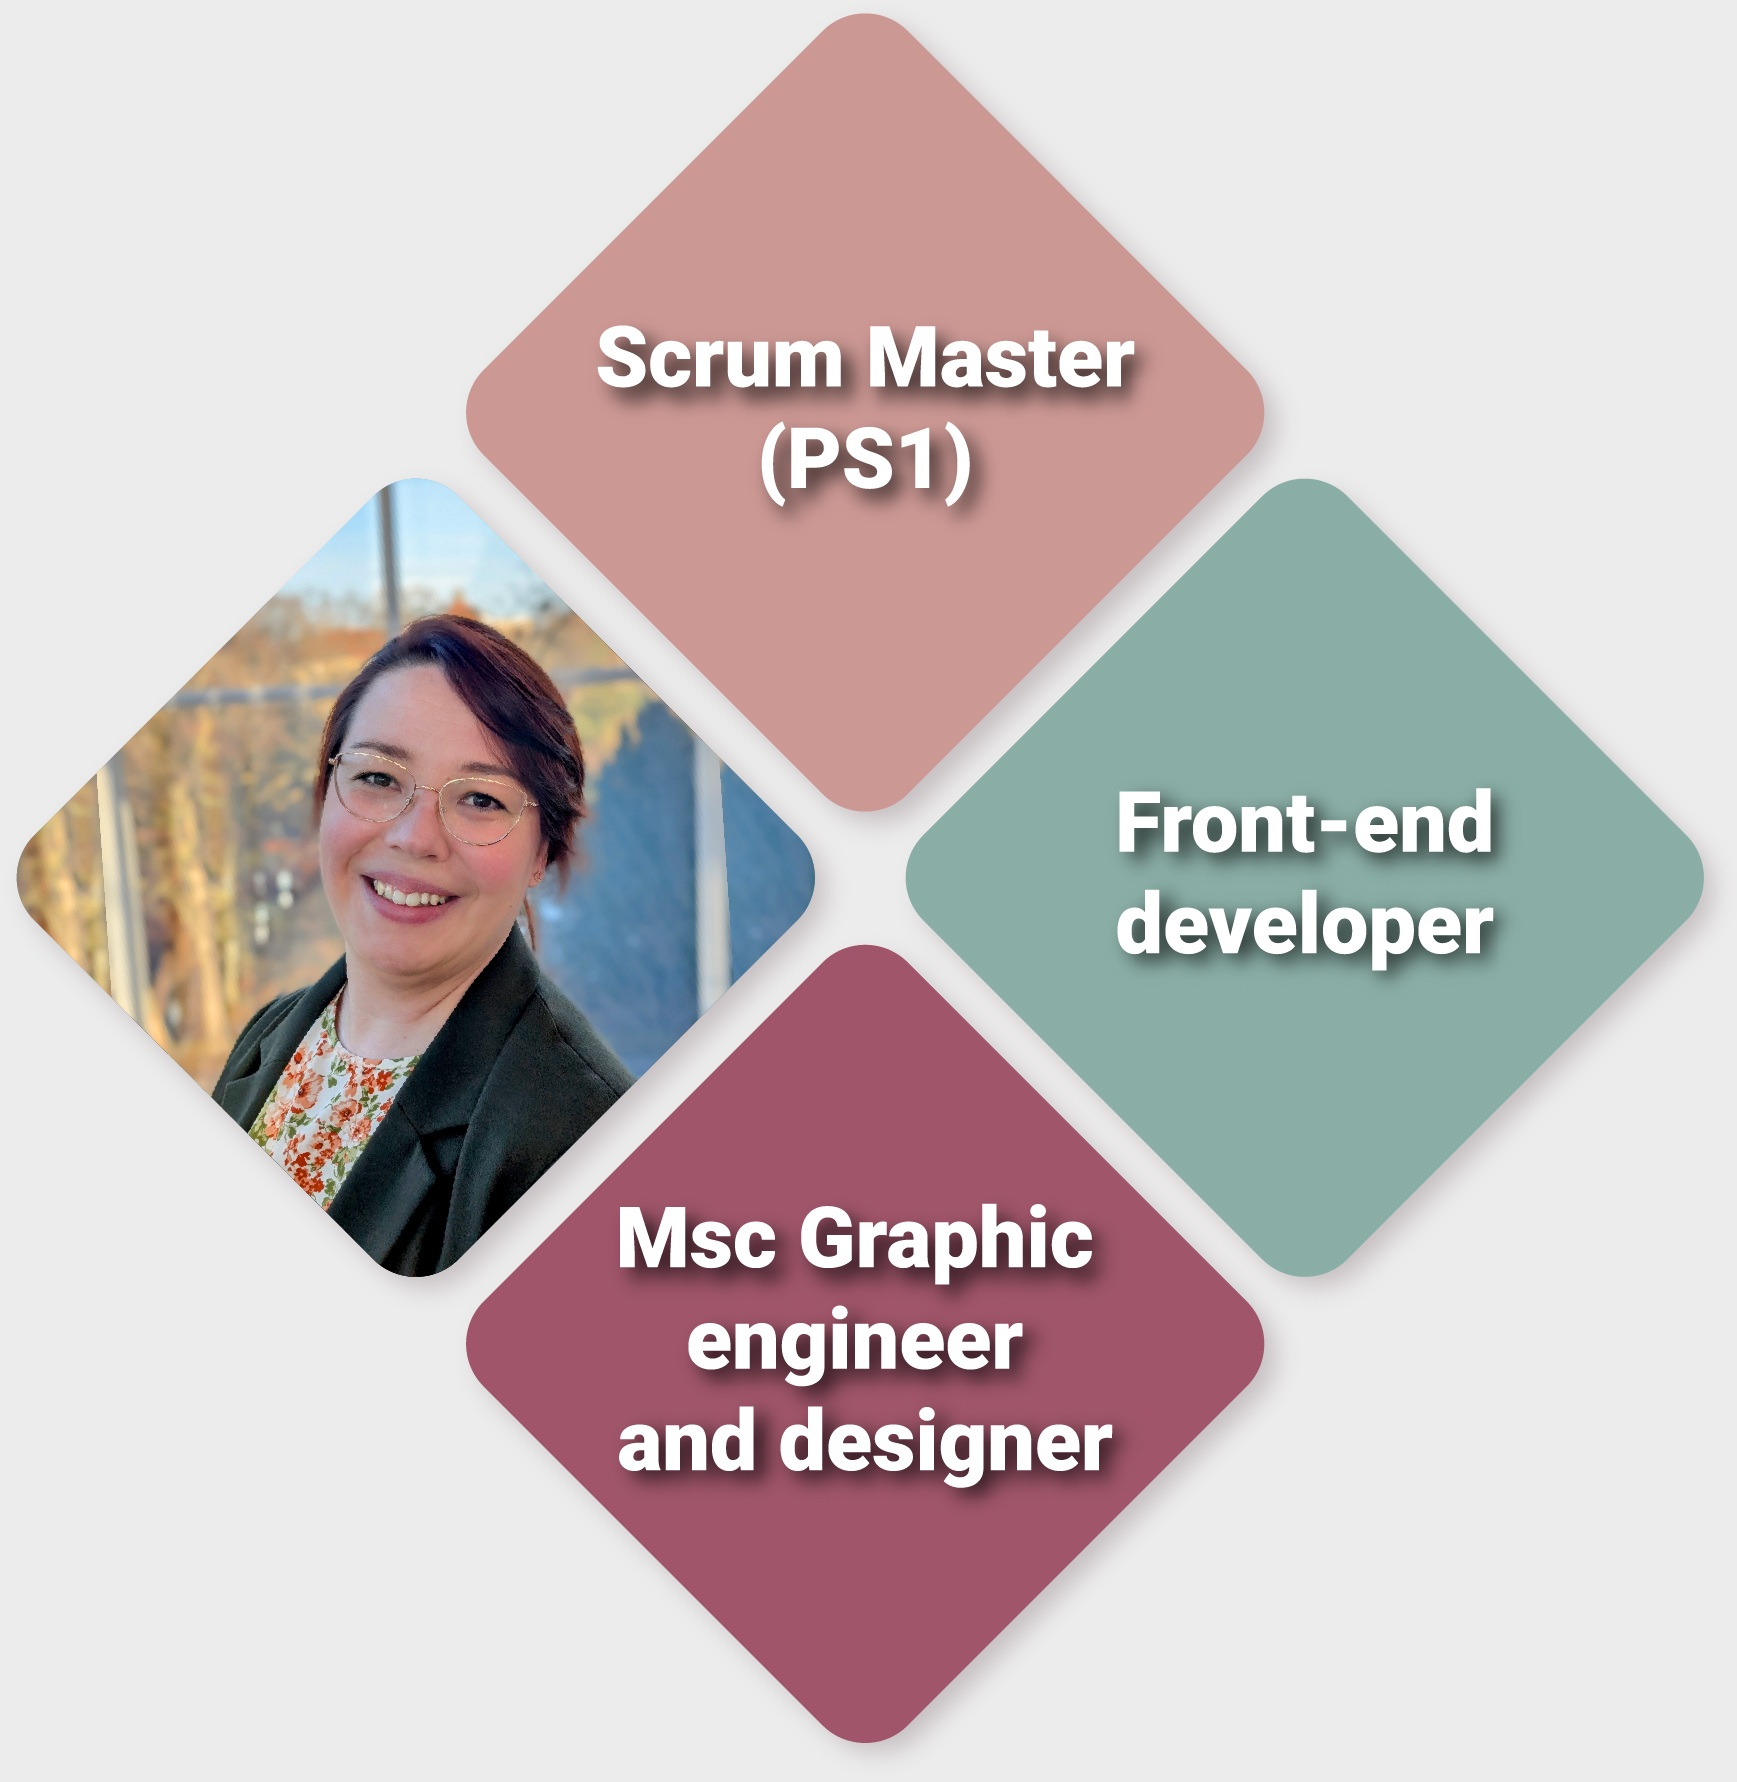
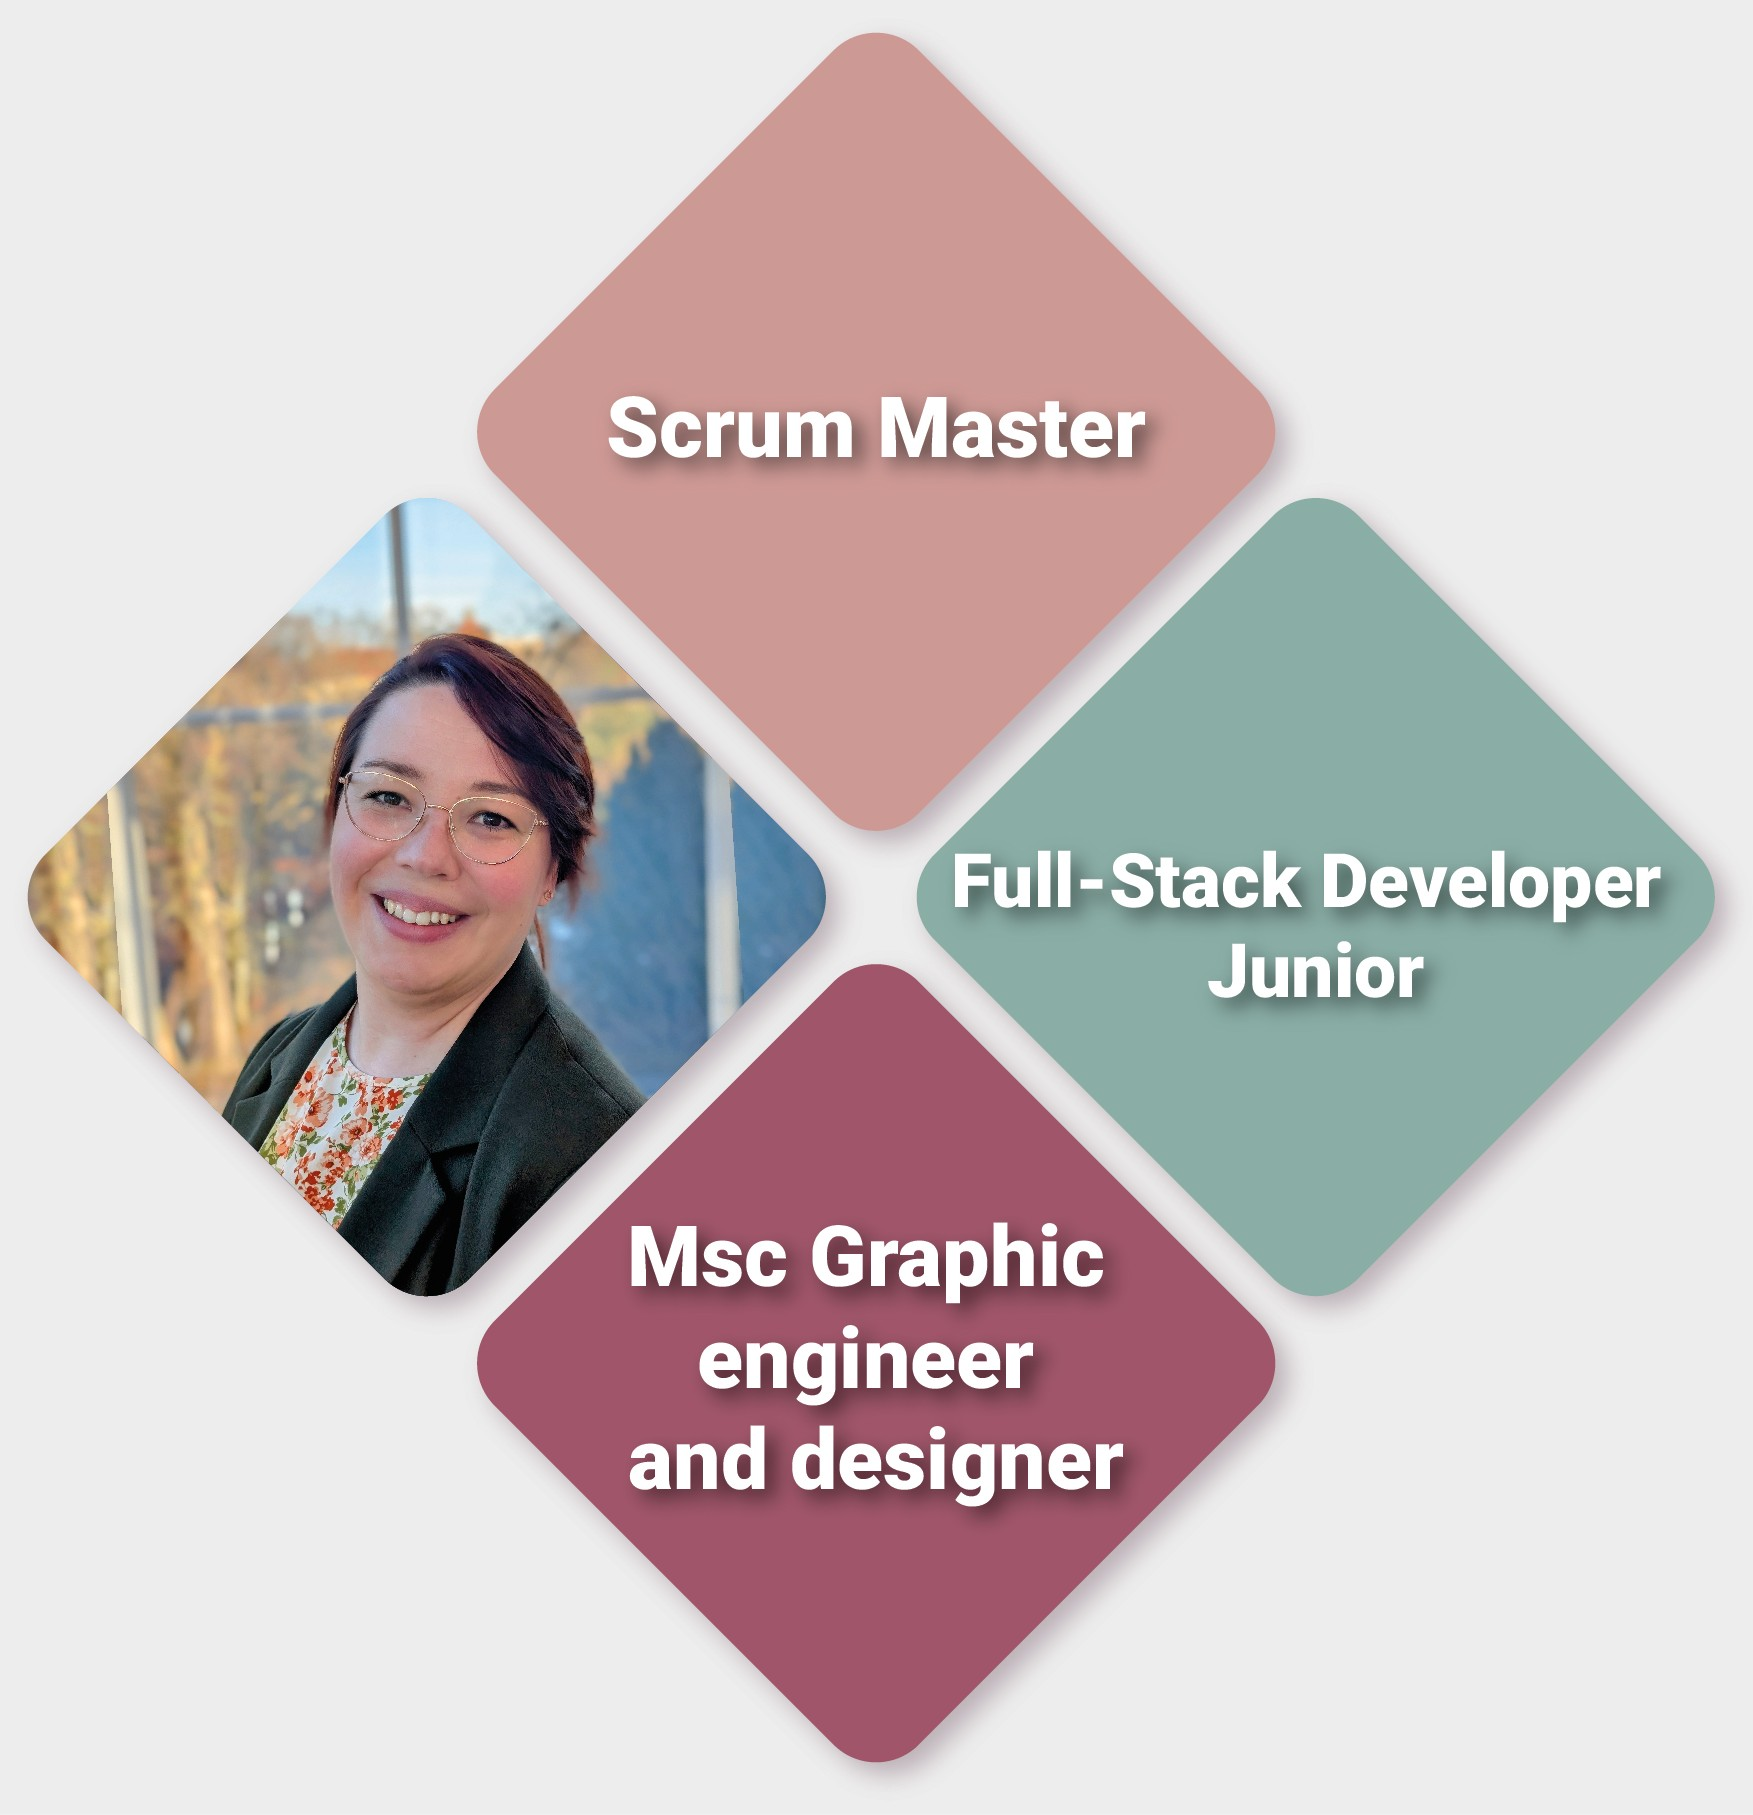
update of portfolio to full stack

diff --git a/src/assets/pages/Work.jsx b/src/assets/pages/Work.jsx
@@ -16,6 +16,7 @@ import Corgi from '../pictures/Work_corgi.svg';
 import Spa from '../pictures/Serenity.png';
 import Animation from '../pictures/Animation.svg';
 import Sass from '../pictures/Sass.svg';
+import LittleLemon from '../pictures/LitlleLemon.png';
 
 const chapterText = "My work";
 
@@ -52,6 +53,20 @@ function Work() {
                         modules={[EffectCoverflow, Pagination, Navigation]}
                         className="swiper-container"
                     >
+                          <SwiperSlide>
+                            <Work_chapter tittle="Little Lemon restaurant"
+                                built_on="Django, MySQL html, CSS"
+                                note="This website was built as a capstone project during 
+                                the Meta Back-End Developer course. It represents an 
+                                Italian restaurant called Little Lemon and is developed 
+                                using the Django framework. It includes Booking and 
+                                Menu pages connected to a MySQL database, enabling dynamic,
+                                 real-world content handling. This project provided hands-on experience and a 
+                                deeper understanding of how back-end systems work in practice."
+                                img={LittleLemon}
+                                url="https://angemijr.pythonanywhere.com/"
+                                 />
+                        </SwiperSlide>
                         <SwiperSlide>
                             <Work_chapter tittle="Memory game"
                                 built_on="React, JavaScript, html, CSS"

diff --git a/src/assets/styles/About.css b/src/assets/styles/About.css
@@ -7,7 +7,7 @@
     height: 100vh;
     min-width: 1200px;
     min-height: 900px;
-    /* border: 5px solid red; */
+     /*border: 5px solid red;*/ 
     display: flex;
     flex-direction: column;
     justify-content: flex-start;

diff --git a/src/assets/styles/Contact.css b/src/assets/styles/Contact.css
@@ -9,7 +9,7 @@
     height: 100vh;
     min-width: 1200px;
     min-height: 300px;
-    /* border: 5px solid red; */
+    /*border: 5px solid red; */
     display: flex;
     flex-direction: column;
     justify-content: flex-start;

diff --git a/src/assets/styles/reset.css b/src/assets/styles/reset.css
@@ -40,4 +40,6 @@ input, button, textarea, select{
 body, html{
     height: 100%; 
     scroll-behavior: smooth; 
+    overflow-x: hidden;
+    overflow-y: auto;
 }

diff --git a/src/assets/styles/Work.css b/src/assets/styles/Work.css
@@ -14,6 +14,7 @@
     justify-content: flex-start;
     align-items: flex-end;
     position: relative;
+    /*border: 2px solid #128312;*/
 }
 
 .container5 {

diff --git a/src/assets/styles/Skills.css b/src/assets/styles/Skills.css
@@ -15,6 +15,7 @@
     align-items: flex-start;
     position: relative;
     background-color: #ececec;
+   
 }
 
 #skills .chapter_left {

diff --git a/src/assets/styles/Education.css b/src/assets/styles/Education.css
@@ -13,6 +13,7 @@
     justify-content: flex-start;
     align-items: flex-end;
     position: relative;
+    
 }
 
 .chapter_right {

diff --git a/src/assets/styles/Work_chapter.css b/src/assets/styles/Work_chapter.css
@@ -16,6 +16,7 @@
     align-items: center;
     justify-content: center;
     overflow: auto;
+    
 
 }
 
